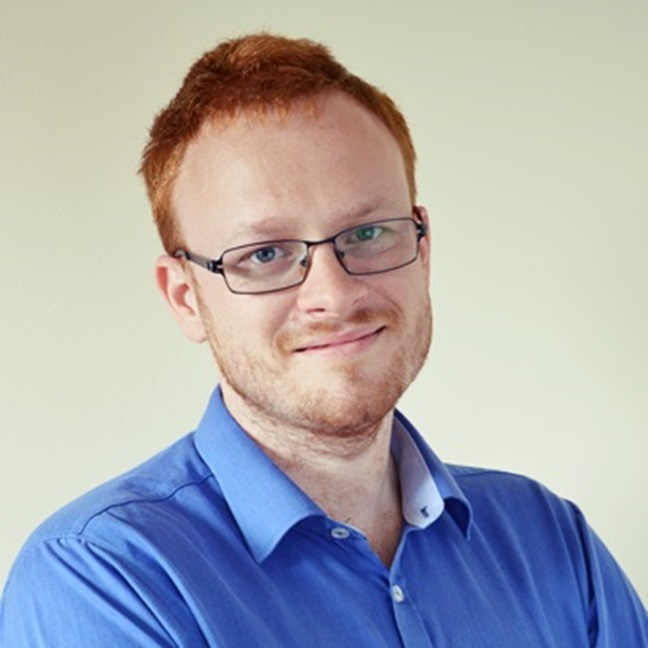
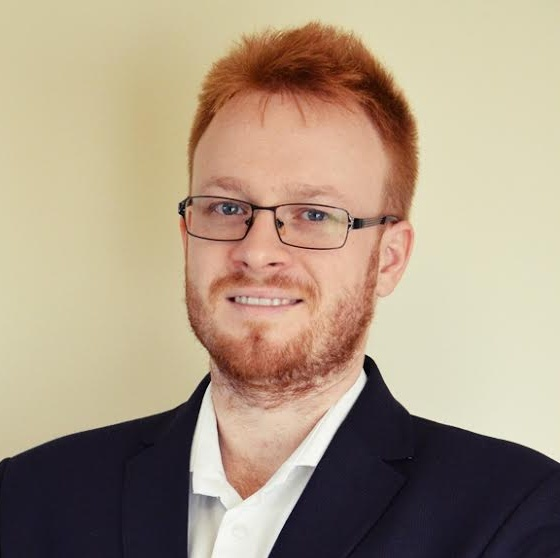
- Update Web CV App (picture, experience, profile)

diff --git a/index.html b/index.html
@@ -80,7 +80,7 @@
         <div class="row">
             <header class="centered">
                 <h1>Jacek Spólnik</h1>
-                <p>SOFTWARE ENGINEER & IT MANAGER</p>
+                <p>IT MANAGER & SOFTWARE CRAFTSMAN</p>
             </header>
             <div class="social-icons">
                 <a href="https://twitter.com/jacek_spolnik" class="btn btn-round btn-clear btn-twitter"><i class="fa fa-twitter"></i></a>
@@ -106,104 +106,17 @@
                 </div>
             </div>
             <div class="col-md-9">
-                <p>Writing valuable software is my passion. I always enjoyed science, math, and technical things as a kid. When I was twelve I've started my first adventures with C++ being initially killed by complexity of Borland C++. Then I didn't get into software engineering until I was in college, when I spent dozen of minutes with Pascal - writing my first snake game. After seeing how much I enjoyed it, I decided to major in computer science and earned a master of science degree from AGH University of Science and Technology. During my studies, I went to work for Apriso. There, I worked as a software engineer and I learnt a lot about the baseline every solid engineer should have.</p>
+                <p>Manager, mentor & coach with 5+ years of experience in leading software development teams, creating craftsmanship culture and building high quality software as well as delivering training courses in the field of software engineering, career development and driving teams in multicultural distributed environments.</p>
+                <p>Proven expertise and experience in software engineering, leading development teams and mentoring software engineers.</p>
+                <p>He shares the passion in clean code development with others, helps find the paths to make the software better and to be better professional. He constantly looks for new challenges recently spending time on expanding his business and management expertise and domain knowledge.</p>
                 <p>In addition to being an engineer and it manager, I'm also a husband and father.  My wife, Magdalena, has a all great talents where I find gaps for myself - learning me about good taste in art and being my best reviewer in all what I do. We have two children, Julia and Mikołaj.</p>
-                <p>With 3+ years of experience as an software engineering manager and 6+ in a field of software engineering I pursue ambitious goals together with all the team members I'm working with.</p>
-                <p>I'm interested in exploring software development opportunities (NodeJS/Java/JS) as well as team management/leadership. I value companies that are making a positive, global impact on the Internet services, take agile/lean approach to project management, and see the value in investing in skills and well-being of the experts working for them.</p>
-                <p>I currently reside in Krakow, PL area, while relocation is possible within the UK or other english-speaking countries.</p>
+                <p>He wants to live, not just survive ...</p>
             </div>
         </div>
     </div>
 </section>
 
-<section id="page-skills-development" class="page-skills-development">
-    <div class="container">
-
-        <header class="section-header">
-            <h2 class="section-title"><span>Skills</span></h2>
-            <div class="spacer"></div>
-            <p class="section-subtitle">DEVELOPMENT</p>
-        </header>
-        <div class="row">
-            <div class="col-md-2">
-                    <span class="chart" data-percent="90">
-                      <span class="percent"></span>
-                    <h3>Java</h3>
-                    </span>
-            </div>
-            <div class="col-md-2 ">
-                    <span class="chart" data-percent="90">
-                      <span class="percent"></span>
-                    <h3>C#/.NET</h3>
-                    </span>
-            </div>
-            <div class="col-md-2">
-                    <span class="chart" data-percent="75">
-                      <span class="percent"></span>
-                    <h3>HTML/CSS</h3>
-                    </span>
-            </div>
-            <div class="col-md-2">
-                    <span class="chart" data-percent="90">
-                      <span class="percent"></span>
-                    <h3>JavaScript</h3>
-                    </span>
-            </div>
-            <div class="col-md-2">
-                    <span class="chart" data-percent="75">
-                      <span class="percent"></span>
-                    <h3>Node.js</h3>
-                    </span>
-            </div>
-            <div class="col-md-2">
-                    <span class="chart" data-percent="85">
-                      <span class="percent"></span>
-                    <h3>TypeScript</h3>
-                    </span>
-            </div>
-        </div>
-        <div class="row">
-            <div class="col-md-2">
-                    <span class="chart" data-percent="90">
-                      <span class="percent"></span>
-                    <h3>TDD</h3>
-                    </span>
-            </div>
-            <div class="col-md-2 ">
-                    <span class="chart" data-percent="80">
-                      <span class="percent"></span>
-                    <h3>Continuous Integration</h3>
-                    </span>
-            </div>
-            <div class="col-md-2">
-                    <span class="chart" data-percent="90">
-                      <span class="percent"></span>
-                    <h3>DDD/Design Patterns</h3>
-                    </span>
-            </div>
-            <div class="col-md-2">
-                    <span class="chart" data-percent="75">
-                      <span class="percent"></span>
-                    <h3>Static code analysis</h3>
-                    </span>
-            </div>
-            <div class="col-md-2">
-                    <span class="chart" data-percent="75">
-                      <span class="percent"></span>
-                    <h3>Functional programming</h3>
-                    </span>
-            </div>
-            <div class="col-md-2">
-                    <span class="chart" data-percent="70">
-                      <span class="percent"></span>
-                    <h3>Scalability & HP</h3>
-                    </span>
-            </div>
-        </div>
-    </div>
-</section>
-
-<section id="page-skills-management" class="page-skills-management">
+<section id="page-skills-management" class="page-skills-development">
     <div class="container">
 
         <header class="section-header">
@@ -213,39 +126,123 @@
         </header>
         <div class="row">
             <div class="col-md-2">
-                    <span class="chart" data-percent="95">
+                    <span class="chart" data-percent="100">
                       <span class="percent"></span>
-                    <h3>Technical leadership</h3>
+                    <h3>Sensmaking</h3>
                     </span>
             </div>
             <div class="col-md-2 ">
-                    <span class="chart" data-percent="80">
+                    <span class="chart" data-percent="85">
+                      <span class="percent"></span>
+                    <h3>Relating</h3>
+                    </span>
+            </div>
+            <div class="col-md-2">
+                    <span class="chart" data-percent="85">
+                      <span class="percent"></span>
+                    <h3>Visioning</h3>
+                    </span>
+            </div>
+            <div class="col-md-2">
+                    <span class="chart" data-percent="90">
+                      <span class="percent"></span>
+                    <h3>Inventing</h3>
+                    </span>
+            </div>
+            <div class="col-md-2">
+                    <span class="chart" data-percent="95">
+                      <span class="percent"></span>
+                    <h3>Driving Recruitment</h3>
+                    </span>
+            </div>
+            <div class="col-md-2">
+                    <span class="chart" data-percent="95">
+                      <span class="percent"></span>
+                    <h3>Technical Leadership</h3>
+                    </span>
+            </div>
+            <div class="col-md-2 ">
+                    <span class="chart" data-percent="90">
                       <span class="percent"></span>
                     <h3>Teams of 50-100 people</h3>
                     </span>
             </div>
             <div class="col-md-2">
-                    <span class="chart" data-percent="85">
+                    <span class="chart" data-percent="95">
                       <span class="percent"></span>
                     <h3>Cross-functional teams</h3>
                     </span>
             </div>
             <div class="col-md-2">
-                    <span class="chart" data-percent="95">
-                      <span class="percent"></span>
-                    <h3>Recruitment</h3>
-                    </span>
-            </div>
-            <div class="col-md-2">
-                    <span class="chart" data-percent="80">
+                    <span class="chart" data-percent="85">
                       <span class="percent"></span>
                     <h3>Scrum & Kanban</h3>
                     </span>
             </div>
             <div class="col-md-2">
-                    <span class="chart" data-percent="85">
+                    <span class="chart" data-percent="90">
                       <span class="percent"></span>
                     <h3>Mentoring & coaching</h3>
+                    </span>
+            </div>
+            <div class="col-md-2">
+                    <span class="chart" data-percent="90">
+                      <span class="percent"></span>
+                    <h3>Building Communities</h3>
+                    </span>
+            </div>
+            <div class="col-md-2">
+                    <span class="chart" data-percent="95">
+                      <span class="percent"></span>
+                    <h3>Team Building</h3>
+                    </span>
+            </div>
+        </div>
+    </div>
+</section>
+
+<section id="page-skills-development" class="page-skills-management">
+    <div class="container">
+        <header class="section-header">
+            <h2 class="section-title"><span>Skills</span></h2>
+            <div class="spacer"></div>
+            <p class="section-subtitle">SOFTWARE ENGINEERING</p>
+        </header>
+        <div class="row">
+            <div class="col-md-2">
+                    <span class="chart" data-percent="90">
+                      <span class="percent"></span>
+                    <h3>Java & C#/.NET</h3>
+                    </span>
+            </div>
+            <div class="col-md-2">
+                    <span class="chart" data-percent="85">
+                      <span class="percent"></span>
+                    <h3>Web Development</h3>
+                    </span>
+            </div>
+            <div class="col-md-2">
+                    <span class="chart" data-percent="80">
+                      <span class="percent"></span>
+                    <h3>Node.js</h3>
+                    </span>
+            </div>
+            <div class="col-md-2">
+                    <span class="chart" data-percent="90">
+                      <span class="percent"></span>
+                    <h3>XP Programming</h3>
+                    </span>
+            </div>
+            <div class="col-md-2">
+                    <span class="chart" data-percent="90">
+                      <span class="percent"></span>
+                    <h3>DDD/BDD/TDD</h3>
+                    </span>
+            </div>
+            <div class="col-md-2">
+                    <span class="chart" data-percent="85">
+                      <span class="percent"></span>
+                    <h3>OOP & FP</h3>
                     </span>
             </div>
         </div>
@@ -278,6 +275,15 @@
                     <p>The application of machine learning methods in the system supporting tasks management within an enterprise.</p>
                 </article>
             </div>
+            <div class="col-md-6">
+                <article class="education">
+                    <header>
+                        <h4>Cracow University of Economics, Cracow School of Business</h4>
+                        <p>Master of Business Administration - <strong>Graduated (planned):</strong> 2018</p>
+                    </header>
+                    <p>International MBA – European Multicultural Integrated Management Program</p>
+                </article>
+            </div>
         </div>
     </div>
 </section>
@@ -293,8 +299,18 @@
             <div class="col-md-4">
                 <article class="experience">
                     <header>
-                        <h3>UBS AG</h3>
-                        <p>Software Development Lead / Kraków, PL / 2016 - Current</p>
+                        <h3>UBS</h3>
+                        <p>Software Development Lead / Kraków, PL / 2016 - current</p>
+                    </header>
+                    <p>Core Operations Services - Securities Europe</p>
+                    <p>Leading application delivery team of Securities Europe - distributed team of many cross-functional teams across different locations. Coach and mentor - helping people develop and excel themselves. Focused on delivery of strategic applications, supporting and enabling my teams - being a facilitator to resolve issues. Additionally, I spend my time driving recruitment process, advising on software engineering - always giving strong emphasis on Test-Driven Development, Behaving-Driven Development, Domain Driven Design, refactoring and clean code. As part of my role, I also spend a significant part of my time disseminating Software Craftsmanship principles and practices across the entire organisation.</p>
+                </article>
+            </div>
+            <div class="col-md-4">
+                <article class="experience">
+                    <header>
+                        <h3>UBS</h3>
+                        <p>Software Development Lead / Kraków, PL / 2015 - 2016</p>
                     </header>
                     <p>UBS Software Labs Poland</p>
                     <p>Leading team of 50+ Software Engineers, coach and mentor - helping people develop and excel themselves. Focused on sharing Agile principles, supporting and enabling my teams - being a facilitator to resolve issues. Additionally, I spend my time pair-programming with developers across teams, always giving strong emphasis on Test-Driven Development, Behaving-Driven Development, Domain Driven Design, refactoring and clean code. As part of my role, I also spend a significant part of my time disseminating Software Craftsmanship principles and practices across the entire organisation.</p>
@@ -303,17 +319,19 @@
             <div class="col-md-4">
                 <article class="experience">
                     <header>
-                        <h3>UBS AG via EPAM Systems</h3>
+                        <h3>UBS (via EPAM Systems)</h3>
                         <p>Development Team Lead / Kraków, PL / 2014 - 2016</p>
                     </header>
                     <p>Securities Operations</p>
                     <p>Starting as team leader, I was responsible for building successful team helping with development of core application. On daily basis I was collaborating with Hong Kong and London teams, providing high quality solutions with my team for any business requirements we've got. Through my work in here I increased my Investment Banking knowledge around securities: equities and bonds. Going with deep understanding of trade lifecycle I'm actively applying my knowledge to challenges we meet on daily basis.</p>
                 </article>
             </div>
+        </div>
+        <div class="row">
             <div class="col-md-4">
                 <article class="experience">
                     <header>
-                        <h3>UBS AG via EPAM Systems</h3>
+                        <h3>UBS (via EPAM Systems)</h3>
                         <p>Development Team Lead / Kraków, PL / 2011 - 2014</p>
                     </header>
                     <p>Risk Analytics (Basel III, CVA)</p>

diff --git a/Gruntfile.js b/Gruntfile.js
@@ -81,7 +81,7 @@ module.exports = function(grunt) {
                     optimizationLevel: 4
                 },
                 files: {
-                    'dist/img/profile.jpg': 'img/profile.JPG',
+                    'dist/img/profile.jpg': 'img/profile.jpg',
                     'dist/img/1.jpg': 'img/slider/48.jpg',
                     'dist/img/2.jpg': 'img/slider/53.jpg',
                     'dist/img/3.jpg': 'img/slider/54.jpg',
